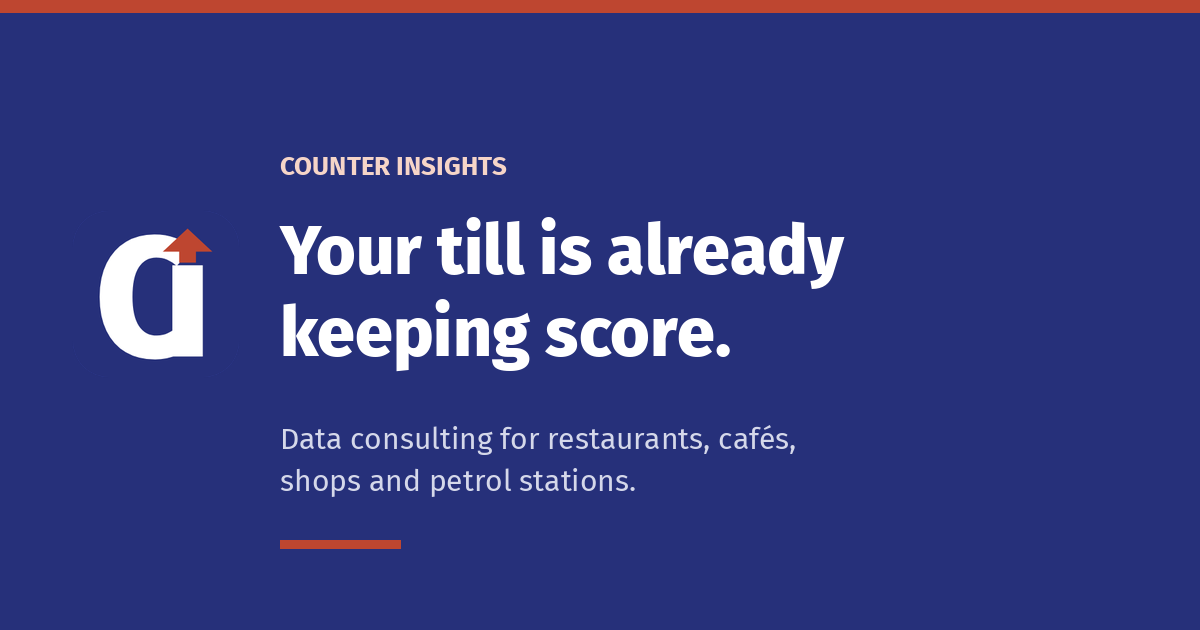
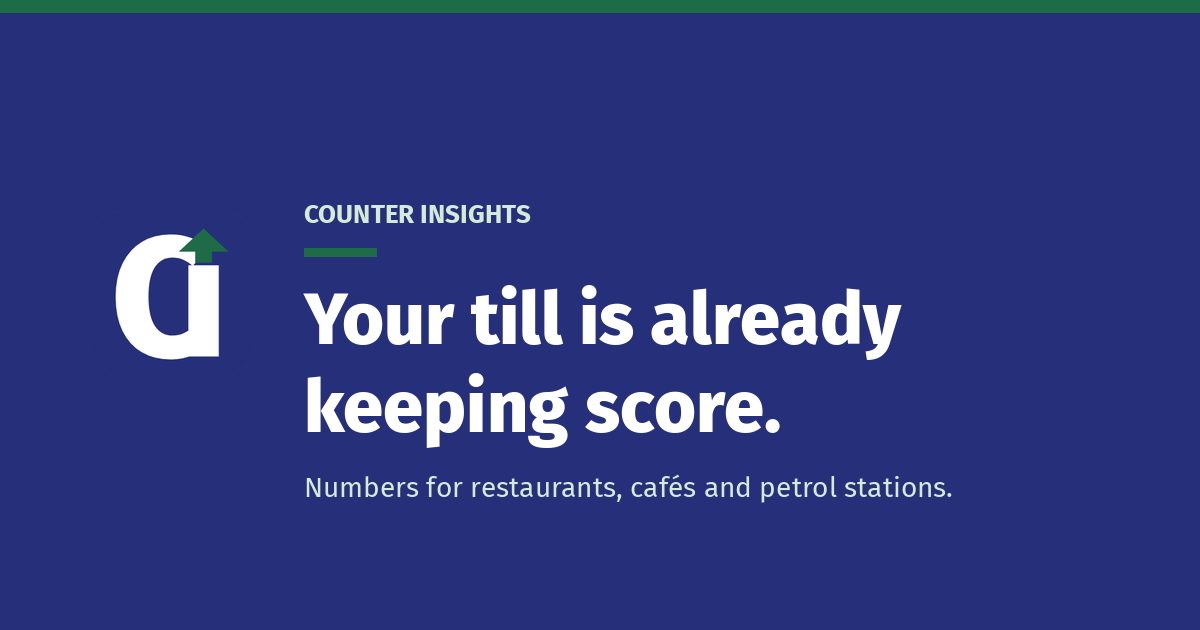
Switch the accent from warm red to dark green.
Buttons, links, tints, the logo arrow, favicons and the social image now use #1E6B47, with #145233 on hover and light green tints in place of the red ones.

diff --git a/css/styles.css b/css/styles.css
@@ -52,12 +52,12 @@
   --ink: #1b2040;
   --body: #2c3350;
   --muted: #3e4662;
-  --red: #be4630;
-  --red-dark: #9c3428;
+  --green: #1e6b47;
+  --green-dark: #145233;
   --line: #e2e5f0;
   --mist: #f5f6fa;
-  --red-soft: #f6e4dc;
-  --red-on-navy: #f6d5c8;
+  --green-soft: #e5f2ea;
+  --green-on-navy: #d4ebd9;
   --white: #ffffff;
   --shadow: 0 18px 40px rgba(38, 48, 122, 0.08);
   --radius: 12px;
@@ -144,7 +144,7 @@ h4 {
   font-weight: 700;
   letter-spacing: 0.08em;
   text-transform: uppercase;
-  color: var(--red);
+  color: var(--green);
   margin-bottom: 0.45rem;
 }
 
@@ -161,7 +161,7 @@ a {
 }
 
 a:hover {
-  color: var(--red-dark);
+  color: var(--green-dark);
 }
 
 :focus-visible {
@@ -208,7 +208,7 @@ a:hover {
   font-weight: 700;
   letter-spacing: 0.14em;
   text-transform: uppercase;
-  color: var(--red);
+  color: var(--green);
 }
 
 .lede {
@@ -322,12 +322,12 @@ html.js .nav-toggle {
 }
 
 .site-nav a:hover {
-  color: var(--red-dark);
+  color: var(--green-dark);
 }
 
 .site-nav a[aria-current="page"] {
-  color: var(--red);
-  box-shadow: inset 0 -2px 0 var(--red);
+  color: var(--green);
+  box-shadow: inset 0 -2px 0 var(--green);
 }
 
 .site-nav a.nav-cta {
@@ -335,13 +335,13 @@ html.js .nav-toggle {
   margin-top: 0.35rem;
   padding: 0.55rem 0.9rem;
   border-radius: 8px;
-  background: var(--red);
+  background: var(--green);
   color: var(--white);
   box-shadow: none;
 }
 
 .site-nav a.nav-cta:hover {
-  background: var(--red-dark);
+  background: var(--green-dark);
   color: var(--white);
 }
 
@@ -459,12 +459,12 @@ html.js .site-nav.is-open {
 }
 
 .button-primary {
-  background: var(--red);
+  background: var(--green);
   color: var(--white);
 }
 
 .button-primary:hover {
-  background: var(--red-dark);
+  background: var(--green-dark);
   color: var(--white);
 }
 
@@ -485,7 +485,7 @@ html.js .site-nav.is-open {
 }
 
 .button-on-navy:hover {
-  background: var(--red-soft);
+  background: var(--green-soft);
   color: var(--navy);
 }
 
@@ -497,7 +497,7 @@ html.js .site-nav.is-open {
   background: var(--mist);
   border-radius: var(--radius);
   padding: 1.5rem;
-  border-top: 4px solid var(--red);
+  border-top: 4px solid var(--green);
 }
 
 .hero-panel h2 {
@@ -529,7 +529,7 @@ html.js .site-nav.is-open {
 }
 
 .eyebrow-light {
-  color: var(--red-on-navy);
+  color: var(--green-on-navy);
 }
 
 .band :focus-visible,
@@ -571,7 +571,7 @@ html.js .site-nav.is-open {
 }
 
 .card-accent {
-  border-top: 4px solid var(--red);
+  border-top: 4px solid var(--green);
 }
 
 .card h3 a {
@@ -580,7 +580,7 @@ html.js .site-nav.is-open {
 }
 
 .card h3 a:hover {
-  color: var(--red-dark);
+  color: var(--green-dark);
 }
 
 .ticks,
@@ -606,11 +606,11 @@ html.js .site-nav.is-open {
   width: 0.45rem;
   height: 0.45rem;
   border-radius: 2px;
-  background: var(--red);
+  background: var(--green);
 }
 
 .band .ticks li::before {
-  background: var(--red-on-navy);
+  background: var(--green-on-navy);
 }
 
 .more {
@@ -642,7 +642,7 @@ html.js .site-nav.is-open {
   font-size: 1.8rem;
   font-weight: 800;
   letter-spacing: -0.04em;
-  color: var(--red);
+  color: var(--green);
   line-height: 1;
 }
 
@@ -658,7 +658,7 @@ html.js .site-nav.is-open {
 
 .package-featured {
   border: 2px solid var(--navy);
-  background: linear-gradient(180deg, var(--red-soft) 0, var(--white) 5.5rem);
+  background: linear-gradient(180deg, var(--green-soft) 0, var(--white) 5.5rem);
 }
 
 .package-kicker {
@@ -667,7 +667,7 @@ html.js .site-nav.is-open {
   font-weight: 700;
   letter-spacing: 0.1em;
   text-transform: uppercase;
-  color: var(--red);
+  color: var(--green);
 }
 
 .package p {
@@ -682,7 +682,7 @@ html.js .site-nav.is-open {
 .price-note {
   margin: 1.5rem 0 0;
   padding: 1rem 1.15rem;
-  background: var(--red-soft);
+  background: var(--green-soft);
   border-radius: var(--radius);
   color: var(--ink);
   font-weight: 600;
@@ -731,7 +731,7 @@ html.js .site-nav.is-open {
 .quote {
   margin: 1.5rem 0;
   padding: 0.2rem 0 0.2rem 1rem;
-  border-left: 4px solid var(--red);
+  border-left: 4px solid var(--green);
   font-size: 1.25rem;
   font-weight: 500;
   color: var(--navy);
@@ -754,7 +754,7 @@ html.js .site-nav.is-open {
 }
 
 .site-footer .contact-list span {
-  color: var(--red-on-navy);
+  color: var(--green-on-navy);
 }
 
 .split-text > * + * {
@@ -806,7 +806,7 @@ html.js .site-nav.is-open {
   font-weight: 700;
   letter-spacing: 0.08em;
   text-transform: uppercase;
-  color: var(--red);
+  color: var(--green);
 }
 
 .form {
@@ -830,7 +830,7 @@ html.js .site-nav.is-open {
 }
 
 .req {
-  color: var(--red);
+  color: var(--green);
 }
 
 input,
@@ -865,7 +865,7 @@ textarea:focus-visible {
 input:user-invalid,
 select:user-invalid,
 textarea:user-invalid {
-  border-color: var(--red);
+  border-color: var(--green);
 }
 
 .check {
@@ -878,7 +878,7 @@ textarea:user-invalid {
   width: 1.25rem;
   height: 1.25rem;
   margin-top: 0.2rem;
-  accent-color: var(--red);
+  accent-color: var(--green);
 }
 
 .form .button {
@@ -921,7 +921,7 @@ textarea:user-invalid {
 }
 
 .site-footer a:hover {
-  color: var(--red-on-navy);
+  color: var(--green-on-navy);
 }
 
 .footer-nav {
